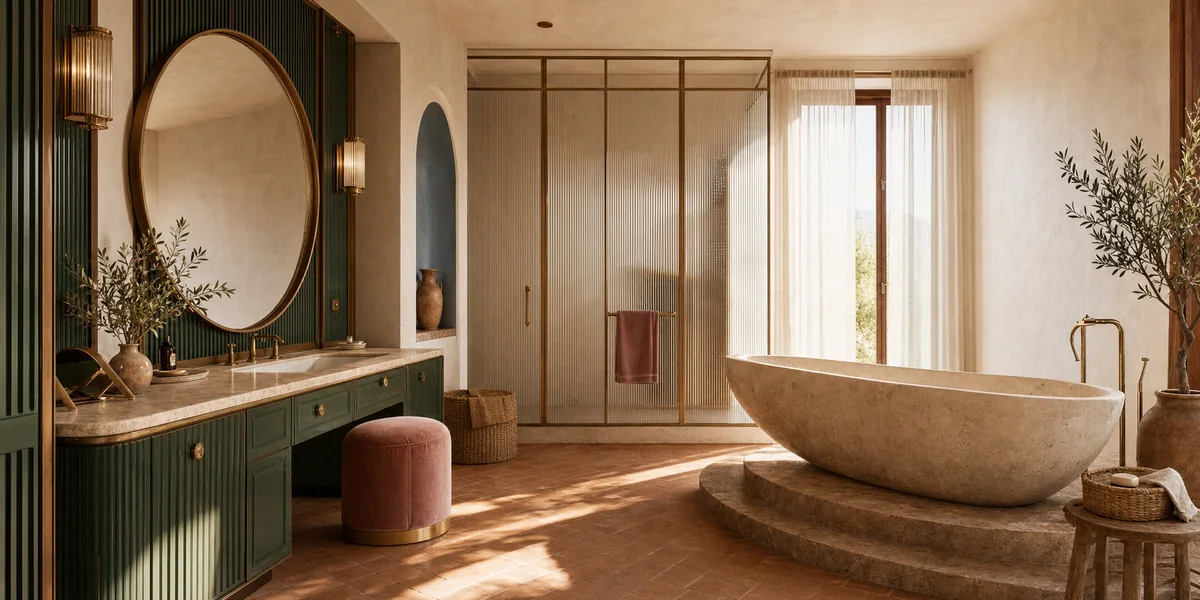
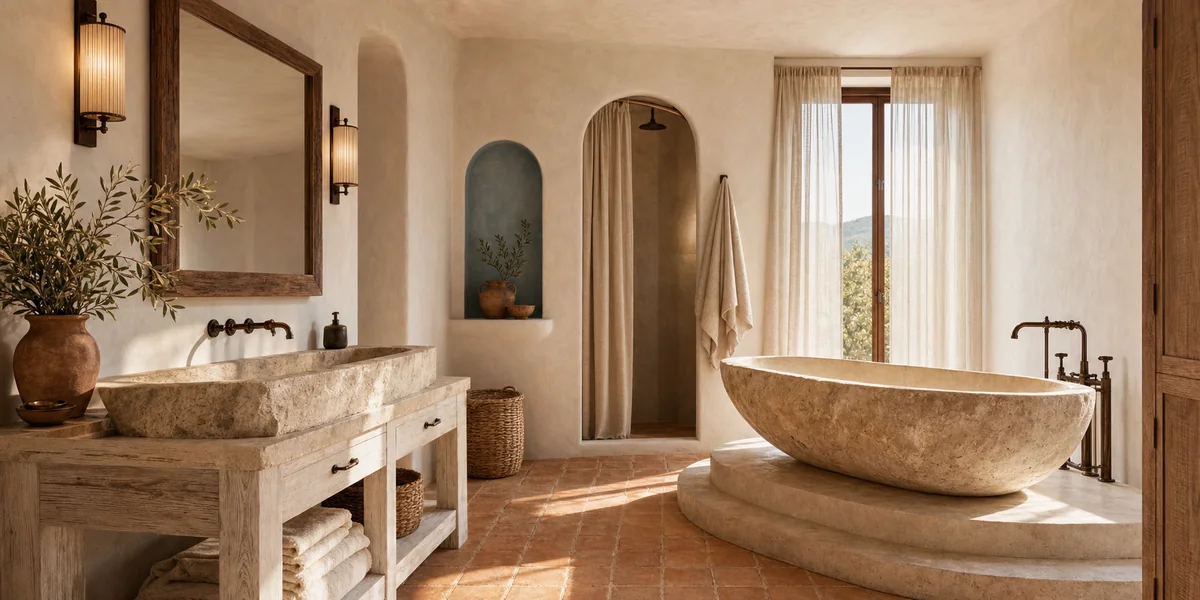
Bathrooms: true Mediterranean direction + film keyframes
The Mediterranean variant kept too much Art Deco (owner report) - regenerated
committing fully to the style: lime plaster, carved stone trough basin,
whitewashed wood, sea-blue arch niche, stone tub on masonry steps, terracotta,
hard sunlight; only the camera and openings kept. Plus the three connecting
film keyframes (vanity / tub / shower) and the Seedance film script.

diff --git a/src/content/interior-design-generated-media.ts b/src/content/interior-design-generated-media.ts
@@ -830,7 +830,7 @@ export const GENERATED_MEDIA: GeneratedMedia[] = [
     "width": 1200,
     "height": 600,
     "aspectRatio": "2:1",
-    "prompt": "Restyle this EXACT bathroom to MEDITERRANEAN: identical camera and architecture. Sun-washed lime-plaster walls in warm white, terracotta floor, arched niche detail painted sea-blue, carved natural stone basin and tub, olive branch in a clay vase, woven baskets, aged brass, strong warm sunlight with sharp shadows. No people, no text.",
+    "prompt": "Completely restyle this bathroom to a true MEDITERRANEAN bathroom, keeping ONLY the camera angle, room dimensions, window position and the positions of tub, vanity and shower. REMOVE every Art Deco element: no emerald lacquer, no fluted green panels, no round brass mirror, no velvet pouf, no geometric marble floor. Instead: sun-washed white lime-plaster walls with soft rounded corners, a carved natural stone trough basin on a whitewashed rustic wood or masonry vanity, a simple rectangular mirror in aged wood, an arched niche painted sea-blue with clay pots, a rough-hewn natural stone tub on low whitewashed masonry steps, terracotta tile floor, an arched opening to the shower with a linen curtain instead of glass, olive branches in a clay vase, woven baskets, aged bronze taps, strong warm Greek-island sunlight with sharp shadows through the window. Rustic, sun-baked, honest materials - unmistakably Mediterranean. No people, no text.",
     "sourceReferences": [
       "source-assets/interior-generated/bathrooms/20_bh_hero.png"
     ],
@@ -964,6 +964,63 @@ export const GENERATED_MEDIA: GeneratedMedia[] = [
     "height": 600,
     "aspectRatio": "2:1",
     "prompt": "Show this EXACT Art Deco bathroom at DUSK: identical camera, architecture and materials; the brass wall lights and a candle by the tub now lit, warm pools of light on the emerald lacquer and veined marble, deep blue evening light in the window. Hyper-realistic, cinematic, no people, no text.",
+    "sourceReferences": [
+      "source-assets/interior-generated/bathrooms/20_bh_hero.png"
+    ],
+    "generatedAt": "2026-08-23",
+    "status": "approved",
+    "architectureLocked": true,
+    "project": "CONCEPT"
+  },
+  {
+    "id": "60_bh_shot_vanity",
+    "page": "bathrooms",
+    "section": "sections",
+    "file": "/interior-design/generated/bathrooms/sections/60_bh_shot_vanity.webp",
+    "mobileFile": null,
+    "alt": "Film frame - close on the emerald vanity and brass mirror",
+    "width": 1672,
+    "height": 941,
+    "aspectRatio": "1.78:1",
+    "prompt": "Same Art Deco bathroom as the source image - same materials (emerald fluted lacquer, champagne brass, ivory stone tub, green-and-rust veined marble podium, blush velvet, Art Deco floor), same architecture and light. New camera: close three-quarter view of the emerald fluted vanity with the round brass mirror, marble top with flowers and brass taps, wall light glowing softly. Cinematic 16:9 film frame, shallow depth of field, no people, no text.",
+    "sourceReferences": [
+      "source-assets/interior-generated/bathrooms/20_bh_hero.png"
+    ],
+    "generatedAt": "2026-08-23",
+    "status": "approved",
+    "architectureLocked": true,
+    "project": "CONCEPT"
+  },
+  {
+    "id": "61_bh_shot_tub",
+    "page": "bathrooms",
+    "section": "sections",
+    "file": "/interior-design/generated/bathrooms/sections/61_bh_shot_tub.webp",
+    "mobileFile": null,
+    "alt": "Film frame - close on the stone tub and veined marble podium",
+    "width": 1672,
+    "height": 941,
+    "aspectRatio": "1.78:1",
+    "prompt": "Same Art Deco bathroom as the source image - same materials (emerald fluted lacquer, champagne brass, ivory stone tub, green-and-rust veined marble podium, blush velvet, Art Deco floor), same architecture and light. New camera: low close view across the rim of the ivory stone bathtub, the green-and-rust veined marble podium steps in the foreground, brass floor filler beside it, window light raking across the stone. Cinematic 16:9 film frame, shallow depth of field, no people, no text.",
+    "sourceReferences": [
+      "source-assets/interior-generated/bathrooms/20_bh_hero.png"
+    ],
+    "generatedAt": "2026-08-23",
+    "status": "approved",
+    "architectureLocked": true,
+    "project": "CONCEPT"
+  },
+  {
+    "id": "62_bh_shot_shower",
+    "page": "bathrooms",
+    "section": "sections",
+    "file": "/interior-design/generated/bathrooms/sections/62_bh_shot_shower.webp",
+    "mobileFile": null,
+    "alt": "Film frame - facing the fluted glass shower",
+    "width": 1672,
+    "height": 941,
+    "aspectRatio": "1.78:1",
+    "prompt": "Same Art Deco bathroom as the source image - same materials (emerald fluted lacquer, champagne brass, ivory stone tub, green-and-rust veined marble podium, blush velvet, Art Deco floor), same architecture and light. New camera: facing the fluted glass and brass shower partition, warm light and a hint of steam behind the reeded glass, a blush towel on the brass rail. Cinematic 16:9 film frame, no people, no text.",
     "sourceReferences": [
       "source-assets/interior-generated/bathrooms/20_bh_hero.png"
     ],
